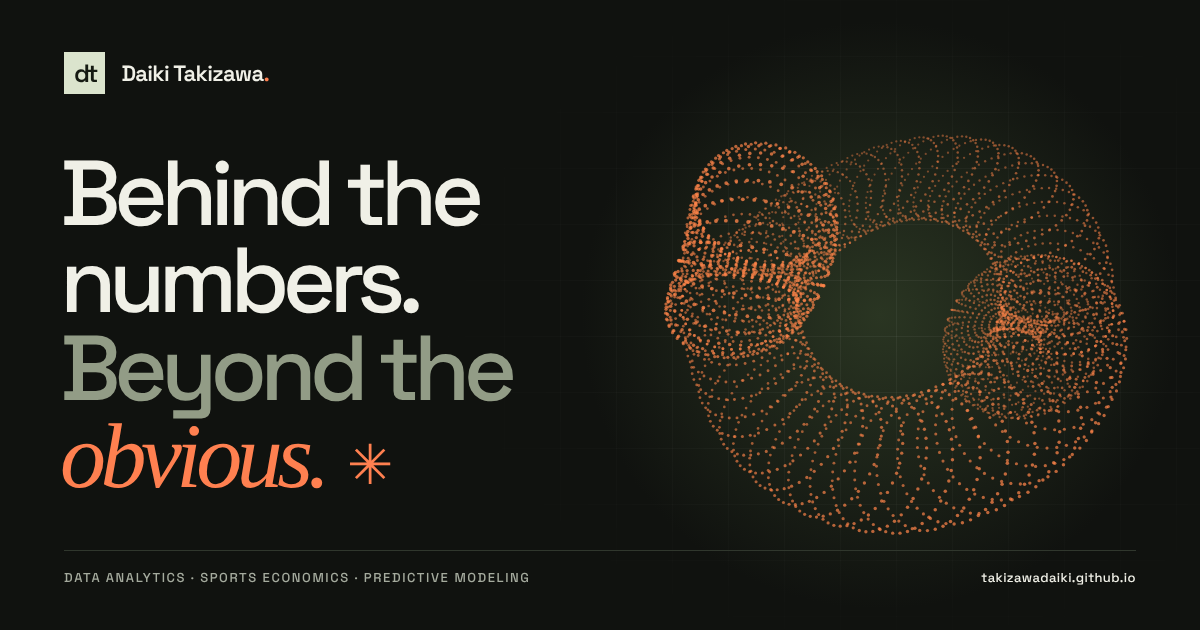
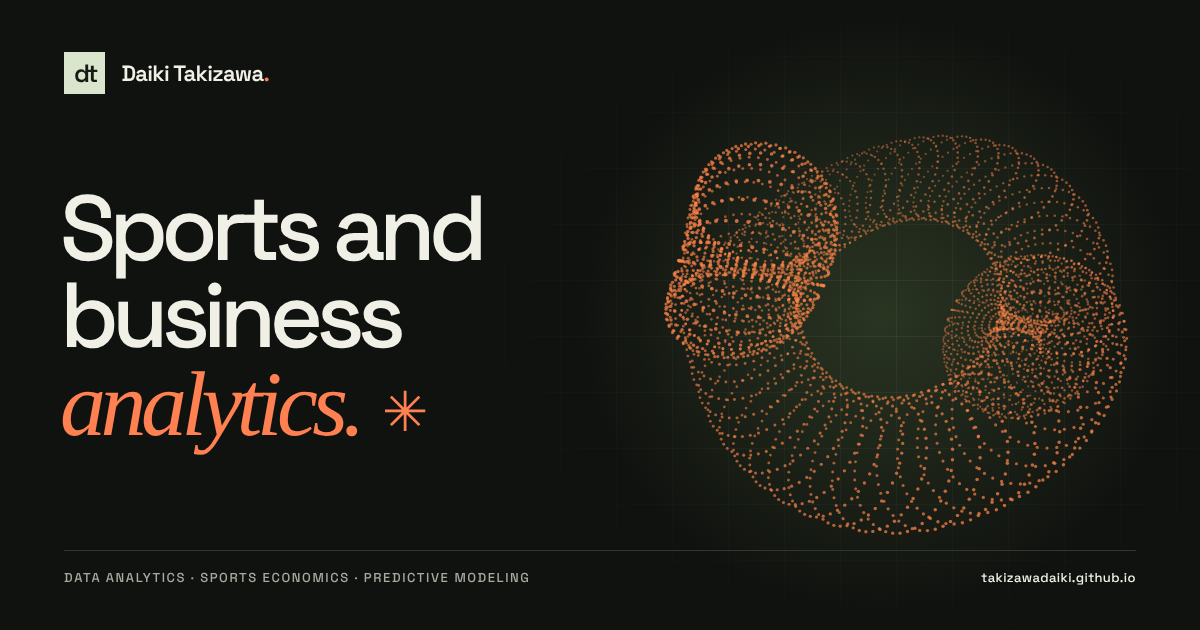
Replace slogan wording on the homepage with plain descriptions
Headline, intro, section headings, the six project card captions, the
footer and the share image now say what the work is.

Claude-Session: https://claude.ai/code/session_013kjK37Pt3F1ZpuihpK7Z47

Changed region(s): [[0.0308, 0.2413, 0.4317, 0.7841]]

diff --git a/index.html b/index.html
@@ -19,7 +19,7 @@
 <meta property="og:image" content="https://takizawadaiki.github.io/og-image.png"/>
 <meta property="og:image:width" content="1200"/>
 <meta property="og:image:height" content="630"/>
-<meta property="og:image:alt" content="Daiki Takizawa. Behind the numbers. Beyond the obvious. An orange point-cloud sculpture on a dark background."/>
+<meta property="og:image:alt" content="Daiki Takizawa. Sports and business analytics. An orange point-cloud sculpture on a dark background."/>
 <meta name="twitter:card" content="summary_large_image"/>
 
 <link rel="preconnect" href="https://fonts.googleapis.com"/>
@@ -1320,16 +1320,16 @@ kbd{font:500 10px/1 var(--heading);border:1px solid var(--border);border-radius:
 <main id="main" class="container">
 
   <section class="intro" id="intro" aria-labelledby="page-title">
-    <div class="hero-top"><div class="eyebrow"><span class="status-dot"></span> Sports and business analytics</div><span class="edition">PORTFOLIO — 2026</span></div>
+    <div class="hero-top"><div class="eyebrow"><span class="status-dot"></span> Research, dashboards and models</div><span class="edition">PORTFOLIO — 2026</span></div>
     <div class="hero-layout"><div class="hero-copy">
-      <h1 id="page-title">Behind the<br>numbers.<br><span>Beyond the</span><br><em>obvious.</em><span class="title-dot" aria-hidden="true">✳</span></h1>
-      <p>I’m Daiki. I explore the stories hiding in business performance and sports economics—through research, dashboards, and predictive models.</p>
+      <h1 id="page-title">Sports and<br>business<br><em>analytics.</em><span class="title-dot" aria-hidden="true">✳</span></h1>
+      <p>I’m Daiki, an economics student at the University of Toronto. I build research, dashboards and prediction models on sports and business data.</p>
       <a class="primary-link" href="#projects">Explore my work <span aria-hidden="true">↘</span></a>
     </div>
-    <div class="hero-art"><div class="art-top"><span>FIG. 01 / FINDING THE SIGNAL</span><span class="art-live"><i></i> <span id="art-hint">LIVE GENERATIVE STUDY</span></span></div>
+    <div class="hero-art"><div class="art-top"><span>FIG. 01 / 4,576 DATA POINTS</span><span class="art-live"><i></i> <span id="art-hint">ANIMATED</span></span></div>
       <canvas id="signal" aria-label="Decorative animated orange point cloud. It can be dragged to rotate and switched between a ribbon, a scatter and a surface." role="img"></canvas>
       <div class="art-forms" role="group" aria-label="Point cloud form" hidden><button type="button" data-form="0" aria-pressed="true">Ribbon</button><button type="button" data-form="1" aria-pressed="false">Scatter</button><button type="button" data-form="2" aria-pressed="false">Surface</button></div>
-      <div class="art-caption"><span>From complexity,<br><strong>a clearer perspective.</strong></span><button id="motion-toggle" type="button" aria-pressed="false">Pause motion <span aria-hidden="true">Ⅱ</span></button></div>
+      <div class="art-caption"><span></span><button id="motion-toggle" type="button" aria-pressed="false">Pause motion <span aria-hidden="true">Ⅱ</span></button></div>
       <span class="art-readout" id="art-readout" aria-hidden="true"></span>
       <span class="art-cross cross-one" aria-hidden="true">+</span><span class="art-cross cross-two" aria-hidden="true">+</span>
     </div></div>
@@ -1431,15 +1431,15 @@ kbd{font:500 10px/1 var(--heading);border:1px solid var(--border);border-radius:
 
   <!-- PROJECTS: each card navigates directly to its project. -->
   <section class="projects-section" id="projects" aria-labelledby="projects-heading">
-    <div class="section-top"><h2 class="section-title" id="projects-heading"><span class="section-index">01 /</span> Selected work</h2><span class="section-count">RESEARCH, WITH A POINT OF VIEW</span></div>
-    <div class="projects-intro"><h2>A closer look.<br><em>A different perspective.</em></h2><p>From the economics of a booking to the business of a championship. Choose a project to explore the research, dashboards, and models behind the work.</p></div>
+    <div class="section-top"><h2 class="section-title" id="projects-heading"><span class="section-index">01 /</span> Selected work</h2><span class="section-count">6 PROJECTS</span></div>
+    <div class="projects-intro"><h2>Business and sports<br><em>projects.</em></h2><p>Each card opens the full project, with the research, dashboards and models behind it.</p></div>
     <div class="project-filters" hidden aria-label="Filter projects"><div role="group" aria-label="Project categories"><button type="button" data-filter="all" aria-pressed="true">All work <span>06</span></button><button type="button" data-filter="business" aria-pressed="false">Business <span>02</span></button><button type="button" data-filter="sports" aria-pressed="false">Sports economics <span>03</span></button><button type="button" data-filter="models" aria-pressed="false">Prediction <span>01</span></button></div><span id="project-count" role="status" aria-live="polite">6 studies</span></div>
     <div class="case-grid">
 <a class="case-study retail" data-category="business" id="case-retail" href="/retail-profitability-analysis/">
     <div class="case-visual project-visual" aria-hidden="true">
-      <div class="bar-art"><i style="--h:34%;--n:0"></i><i style="--h:51%;--n:1"></i><i style="--h:39%;--n:2"></i><i style="--h:70%;--n:3"></i><i style="--h:56%;--n:4"></i><i style="--h:84%;--n:5"></i><i style="--h:67%;--n:6"></i><i style="--h:94%;--n:7"></i><i style="--h:77%;--n:8"></i><i style="--h:60%;--n:9"></i><i style="--h:42%;--n:10"></i><i style="--h:26%;--n:11"></i></div><span class="visual-note">VOLUME ≠ VALUE</span>
-      <span class="case-figure">FIELD NOTES / 01</span>
-      <div class="case-hook">Revenue tells one story.<br><em>Profit tells another.</em></div>
+      <div class="bar-art"><i style="--h:34%;--n:0"></i><i style="--h:51%;--n:1"></i><i style="--h:39%;--n:2"></i><i style="--h:70%;--n:3"></i><i style="--h:56%;--n:4"></i><i style="--h:84%;--n:5"></i><i style="--h:67%;--n:6"></i><i style="--h:94%;--n:7"></i><i style="--h:77%;--n:8"></i><i style="--h:60%;--n:9"></i><i style="--h:42%;--n:10"></i><i style="--h:26%;--n:11"></i></div><span class="visual-note">9,994 RETAIL RECORDS</span>
+      <span class="case-figure">PROJECT / 01</span>
+      <div class="case-hook">Which products and regions<br><em>lose money?</em></div>
       <span class="case-seal">↗</span>
     </div>
     <div class="case-summary">
@@ -1452,9 +1452,9 @@ kbd{font:500 10px/1 var(--heading);border:1px solid var(--border);border-radius:
   </a>
 <a class="case-study hotel" data-category="business" id="case-hotel" href="/hotel-booking-analysis/">
     <div class="case-visual project-visual" aria-hidden="true">
-      <div class="ledger-art"><i></i><i></i><i></i><i></i><i></i><i></i><i></i><i></i><i></i><i></i><i></i><i></i><i></i><i></i><i></i><i></i><i></i><i></i><i></i><i></i><i></i><i></i><i></i><i></i><i></i><i></i><i></i><i></i><i></i><i></i><i></i><i></i><i></i><i></i><i></i><i></i><i></i><i></i><i></i><i></i><i></i><i></i><i></i><i></i><i></i><i></i><i></i><i></i><i></i><i></i><i></i><i></i><i></i><i></i><i></i><i></i><i></i><i></i><i></i><i></i><i></i><i></i><i></i><i></i><i></i><i></i><i></i><i></i><i></i><i></i></div><span class="visual-note">BOOKED. BUT NOT GUARANTEED.</span>
-      <span class="case-figure">FIELD NOTES / 02</span>
-      <div class="case-hook">A reservation isn’t<br><em>a guarantee.</em></div>
+      <div class="ledger-art"><i></i><i></i><i></i><i></i><i></i><i></i><i></i><i></i><i></i><i></i><i></i><i></i><i></i><i></i><i></i><i></i><i></i><i></i><i></i><i></i><i></i><i></i><i></i><i></i><i></i><i></i><i></i><i></i><i></i><i></i><i></i><i></i><i></i><i></i><i></i><i></i><i></i><i></i><i></i><i></i><i></i><i></i><i></i><i></i><i></i><i></i><i></i><i></i><i></i><i></i><i></i><i></i><i></i><i></i><i></i><i></i><i></i><i></i><i></i><i></i><i></i><i></i><i></i><i></i><i></i><i></i><i></i><i></i><i></i><i></i></div><span class="visual-note">HOTEL BOOKING RECORDS</span>
+      <span class="case-figure">PROJECT / 02</span>
+      <div class="case-hook">Which hotel bookings<br><em>get cancelled?</em></div>
       <span class="case-seal">↗</span>
     </div>
     <div class="case-summary">
@@ -1467,9 +1467,9 @@ kbd{font:500 10px/1 var(--heading);border:1px solid var(--border);border-radius:
   </a>
 <a class="case-study business" data-category="sports" id="case-business" href="/Sports-Business/">
     <div class="case-visual project-visual" aria-hidden="true">
-      <div class="league-art"><span>NBA</span><span>NFL</span><span>MLB</span><span>NHL</span></div><span class="visual-note">FOUR LEAGUES. DIFFERENT RULES.</span>
-      <span class="case-figure">FIELD NOTES / 03</span>
-      <div class="case-hook">Same ambition.<br><em>Different rules.</em></div>
+      <div class="league-art"><span>NBA</span><span>NFL</span><span>MLB</span><span>NHL</span></div><span class="visual-note">SALARY CAPS COMPARED</span>
+      <span class="case-figure">PROJECT / 03</span>
+      <div class="case-hook">How four leagues<br><em>pay their players.</em></div>
       <span class="case-seal">↗</span>
     </div>
     <div class="case-summary">
@@ -1482,9 +1482,9 @@ kbd{font:500 10px/1 var(--heading);border:1px solid var(--border);border-radius:
   </a>
 <a class="case-study dodgers" data-category="sports" id="case-dodgers" href="/LADODGERS/">
     <div class="case-visual project-visual" aria-hidden="true">
-      <div class="orbit-art"><i></i><i></i><i></i><b>LA</b><span>JP</span></div><span class="visual-note">A GLOBAL RIPPLE EFFECT</span>
-      <span class="case-figure">FIELD NOTES / 04</span>
-      <div class="case-hook">The impact extends<br><em>beyond the field.</em></div>
+      <div class="orbit-art"><i></i><i></i><i></i><b>LA</b><span>JP</span></div><span class="visual-note">MLB BUSINESS</span>
+      <span class="case-figure">PROJECT / 04</span>
+      <div class="case-hook">What Japanese stars are worth<br><em>to the Dodgers.</em></div>
       <span class="case-seal">↗</span>
     </div>
     <div class="case-summary">
@@ -1497,9 +1497,9 @@ kbd{font:500 10px/1 var(--heading);border:1px solid var(--border);border-radius:
   </a>
 <a class="case-study models" data-category="models" id="case-models" href="prediction-models.html">
     <div class="case-visual project-visual" aria-hidden="true">
-      <svg viewBox="0 0 500 200" class="wave-art"><path d="M0 170 Q90 170 150 125 T250 30 T350 125 T500 170"/><path d="M0 175 Q140 175 210 100 T310 60 T500 175"/><path d="M0 178 Q70 178 120 115 T210 65 T310 140 T500 178"/><path d="M0 180H500"/></svg><span class="visual-note">PROBABILITY, NOT CERTAINTY.</span>
-      <span class="case-figure">FIELD NOTES / 05</span>
-      <div class="case-hook">Explore the odds.<br><em>Respect uncertainty.</em></div>
+      <svg viewBox="0 0 500 200" class="wave-art"><path d="M0 170 Q90 170 150 125 T250 30 T350 125 T500 170"/><path d="M0 175 Q140 175 210 100 T310 60 T500 175"/><path d="M0 178 Q70 178 120 115 T210 65 T310 140 T500 178"/><path d="M0 180H500"/></svg><span class="visual-note">MONTE CARLO AND ELO</span>
+      <span class="case-figure">PROJECT / 05</span>
+      <div class="case-hook">Six models that<br><em>estimate match odds.</em></div>
       <span class="case-seal">↗</span>
     </div>
     <div class="case-summary">
@@ -1511,9 +1511,9 @@ kbd{font:500 10px/1 var(--heading);border:1px solid var(--border);border-radius:
   </a>
 <a class="case-study tennis" data-category="sports" id="case-tennis" href="/grand-slam-economics/">
     <div class="case-visual project-visual" aria-hidden="true">
-      <div class="tennis-art"><i></i><b></b></div><span class="visual-note">THE OTHER SIDE OF THE COURT</span>
-      <span class="case-figure">FIELD NOTES / 06</span>
-      <div class="case-hook">Grand stages.<br><em>Unequal rewards.</em></div>
+      <div class="tennis-art"><i></i><b></b></div><span class="visual-note">GRAND SLAM ECONOMICS</span>
+      <span class="case-figure">PROJECT / 06</span>
+      <div class="case-hook">Where the money goes<br><em>in pro tennis.</em></div>
       <span class="case-seal">↗</span>
     </div>
     <div class="case-summary">
@@ -1631,7 +1631,7 @@ kbd{font:500 10px/1 var(--heading);border:1px solid var(--border);border-radius:
   </section>
 </main>
 
-<footer><div class="container footer-statement"><span>THERE’S ALWAYS MORE TO THE STORY.</span><a href="https://github.com/takizawadaiki" target="_blank" rel="noopener noreferrer">Stay curious.<span aria-hidden="true">↗</span></a></div>
+<footer><div class="container footer-statement"><span>CODE AND DATA FOR THESE PROJECTS</span><a href="https://github.com/takizawadaiki" target="_blank" rel="noopener noreferrer">View on GitHub<span aria-hidden="true">↗</span></a></div>
   <div class="container footer-inner">
     <span>Daiki Takizawa · Data Analytics</span>
     <a href="#top">Back to top ↑</a>

diff --git a/prediction-models.html b/prediction-models.html
@@ -12,7 +12,7 @@
 <meta property="og:image" content="https://takizawadaiki.github.io/og-image.png"/>
 <meta property="og:image:width" content="1200"/>
 <meta property="og:image:height" content="630"/>
-<meta property="og:image:alt" content="Daiki Takizawa. Behind the numbers. Beyond the obvious. An orange point-cloud sculpture on a dark background."/>
+<meta property="og:image:alt" content="Daiki Takizawa. Sports and business analytics. An orange point-cloud sculpture on a dark background."/>
 <meta name="twitter:card" content="summary_large_image"/><link href="https://fonts.googleapis.com/css2?family=DM+Sans:wght@400;500;600;700&family=Space+Grotesk:wght@400;500;600;700&display=swap" rel="stylesheet"><style>*{box-sizing:border-box}body{margin:0}
 /* Portfolio-wide dark editorial design. Existing analysis logic is retained. */
 :root{color-scheme:dark;--dt-bg:#10140f;--dt-panel:#1a2117;--dt-line:#35402d;--dt-text:#eef0e5;--dt-muted:#a6b29b;--dt-head:'Space Grotesk',sans-serif}

diff --git a/bench-research.html b/bench-research.html
@@ -20,7 +20,7 @@
 <meta property="og:image" content="https://takizawadaiki.github.io/og-image.png"/>
 <meta property="og:image:width" content="1200"/>
 <meta property="og:image:height" content="630"/>
-<meta property="og:image:alt" content="Daiki Takizawa. Behind the numbers. Beyond the obvious. An orange point-cloud sculpture on a dark background."/>
+<meta property="og:image:alt" content="Daiki Takizawa. Sports and business analytics. An orange point-cloud sculpture on a dark background."/>
 <meta name="twitter:card" content="summary_large_image"/>
 <link href="https://fonts.googleapis.com/css2?family=Inter:wght@300;400;500&amp;family=Space+Grotesk:wght@500;600;700&amp;family=Space+Mono:wght@400;700&amp;display=swap" rel="stylesheet"/>
 <style>

diff --git a/dashboard.html b/dashboard.html
@@ -19,7 +19,7 @@
 <meta property="og:image" content="https://takizawadaiki.github.io/og-image.png"/>
 <meta property="og:image:width" content="1200"/>
 <meta property="og:image:height" content="630"/>
-<meta property="og:image:alt" content="Daiki Takizawa. Behind the numbers. Beyond the obvious. An orange point-cloud sculpture on a dark background."/>
+<meta property="og:image:alt" content="Daiki Takizawa. Sports and business analytics. An orange point-cloud sculpture on a dark background."/>
 <meta name="twitter:card" content="summary_large_image"/>
 <link rel="preconnect" href="https://fonts.googleapis.com"/>
 <link rel="preconnect" href="https://fonts.gstatic.com" crossorigin/>
